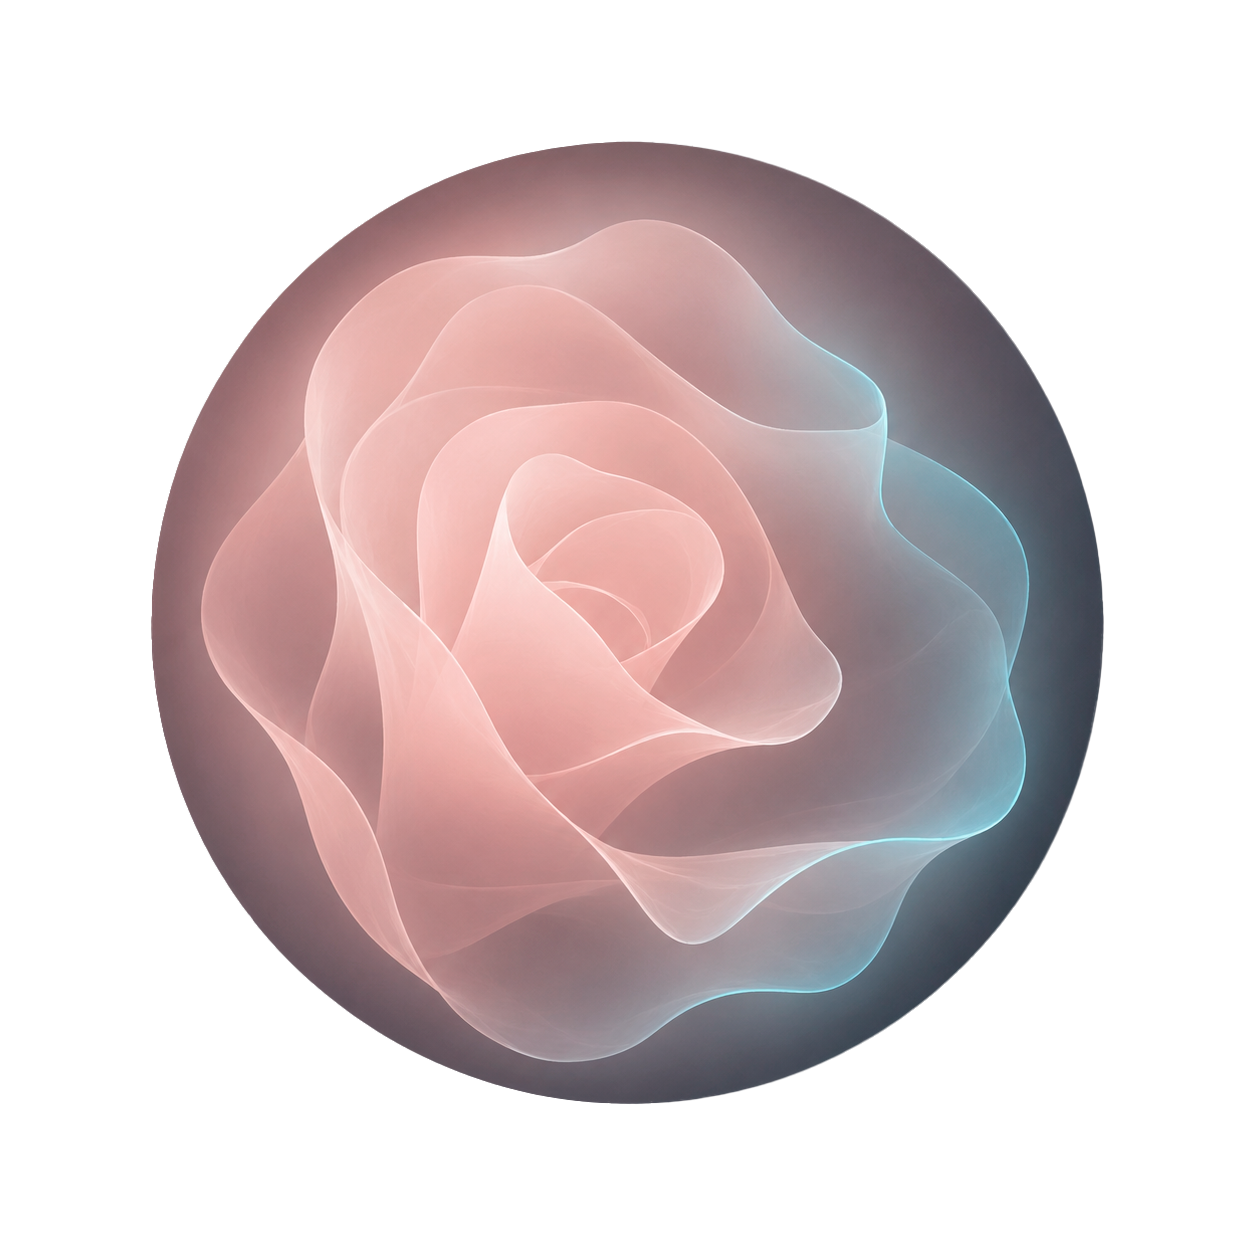
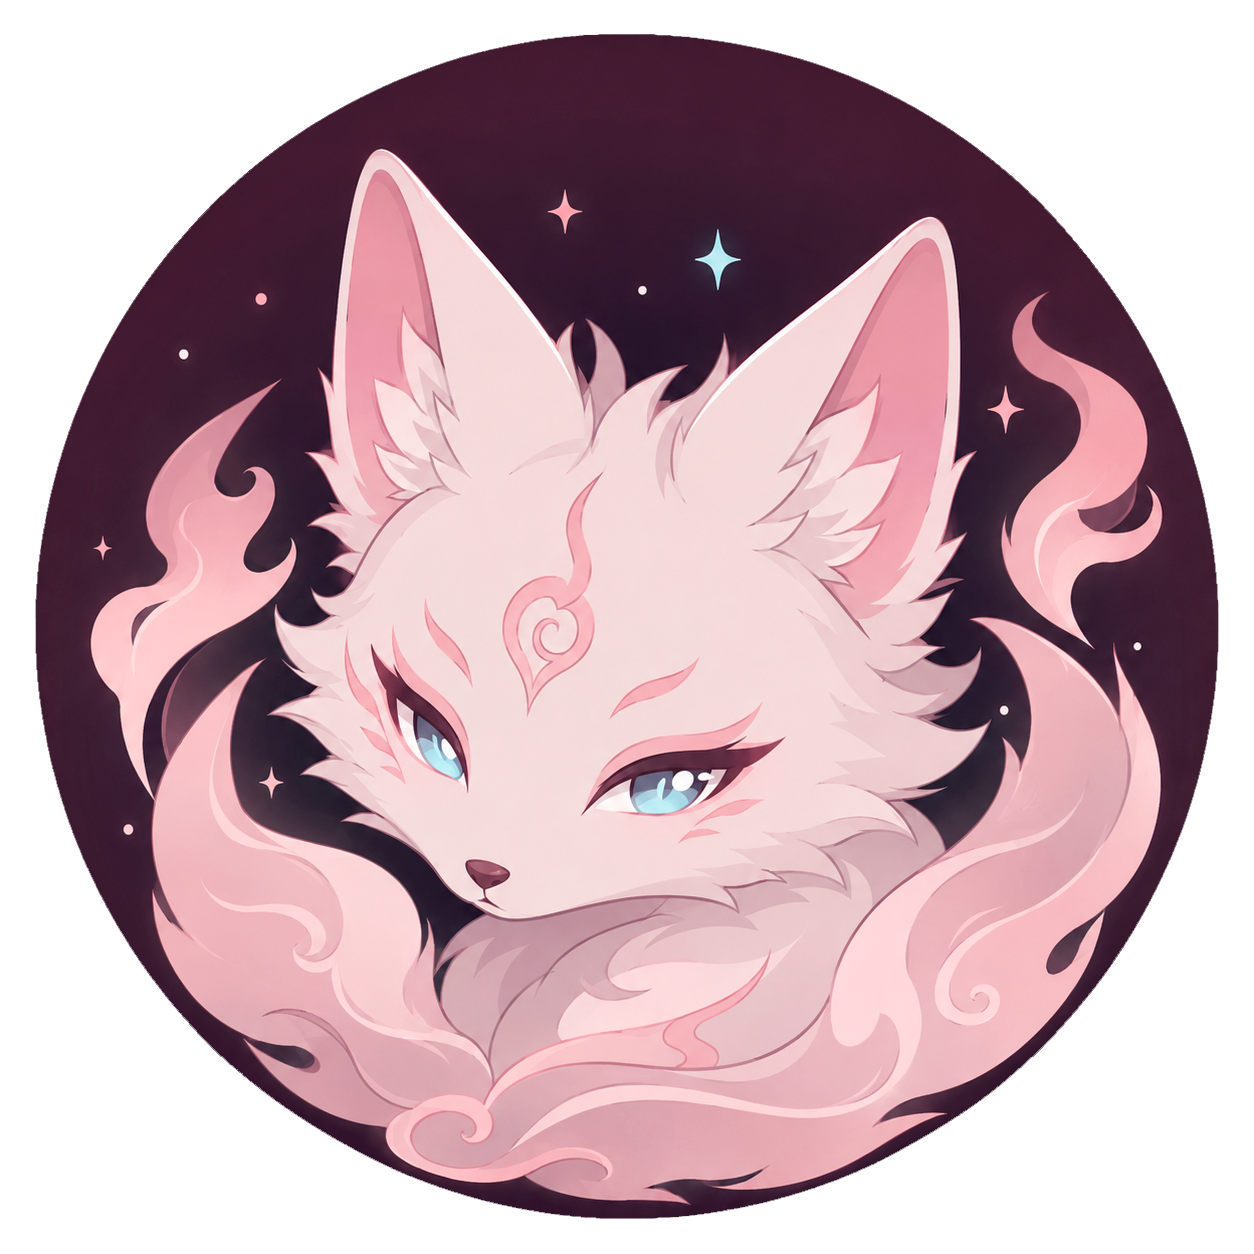
v2.1.1 — introduce kitsune mascot, footer divider, fix README in VSIX

diff --git a/README.md b/README.md
@@ -64,3 +64,15 @@ Roseveil themes the following extensions:
 ## Support
 
 Found an issue or have a suggestion? Open an issue on [GitHub](https://github.com/xloiqa/roseveil/issues) or reach out via the Marketplace Q&A.
+
+<p align="center">
+<img src="images/footer.png" width="600" alt=""/>
+</p>
+
+<p align="center">
+Copyright &copy; 2026-present <a href="https://github.com/xloiqa">xloiqa</a>
+</p>
+
+<p align="center">
+<a href="https://github.com/xloiqa/roseveil/blob/main/LICENSE"><img src="https://img.shields.io/static/v1.svg?style=for-the-badge&label=License&message=MIT&logoColor=f4e9e8&colorA=2b2b44&colorB=c75e7a"/></a>
+</p>